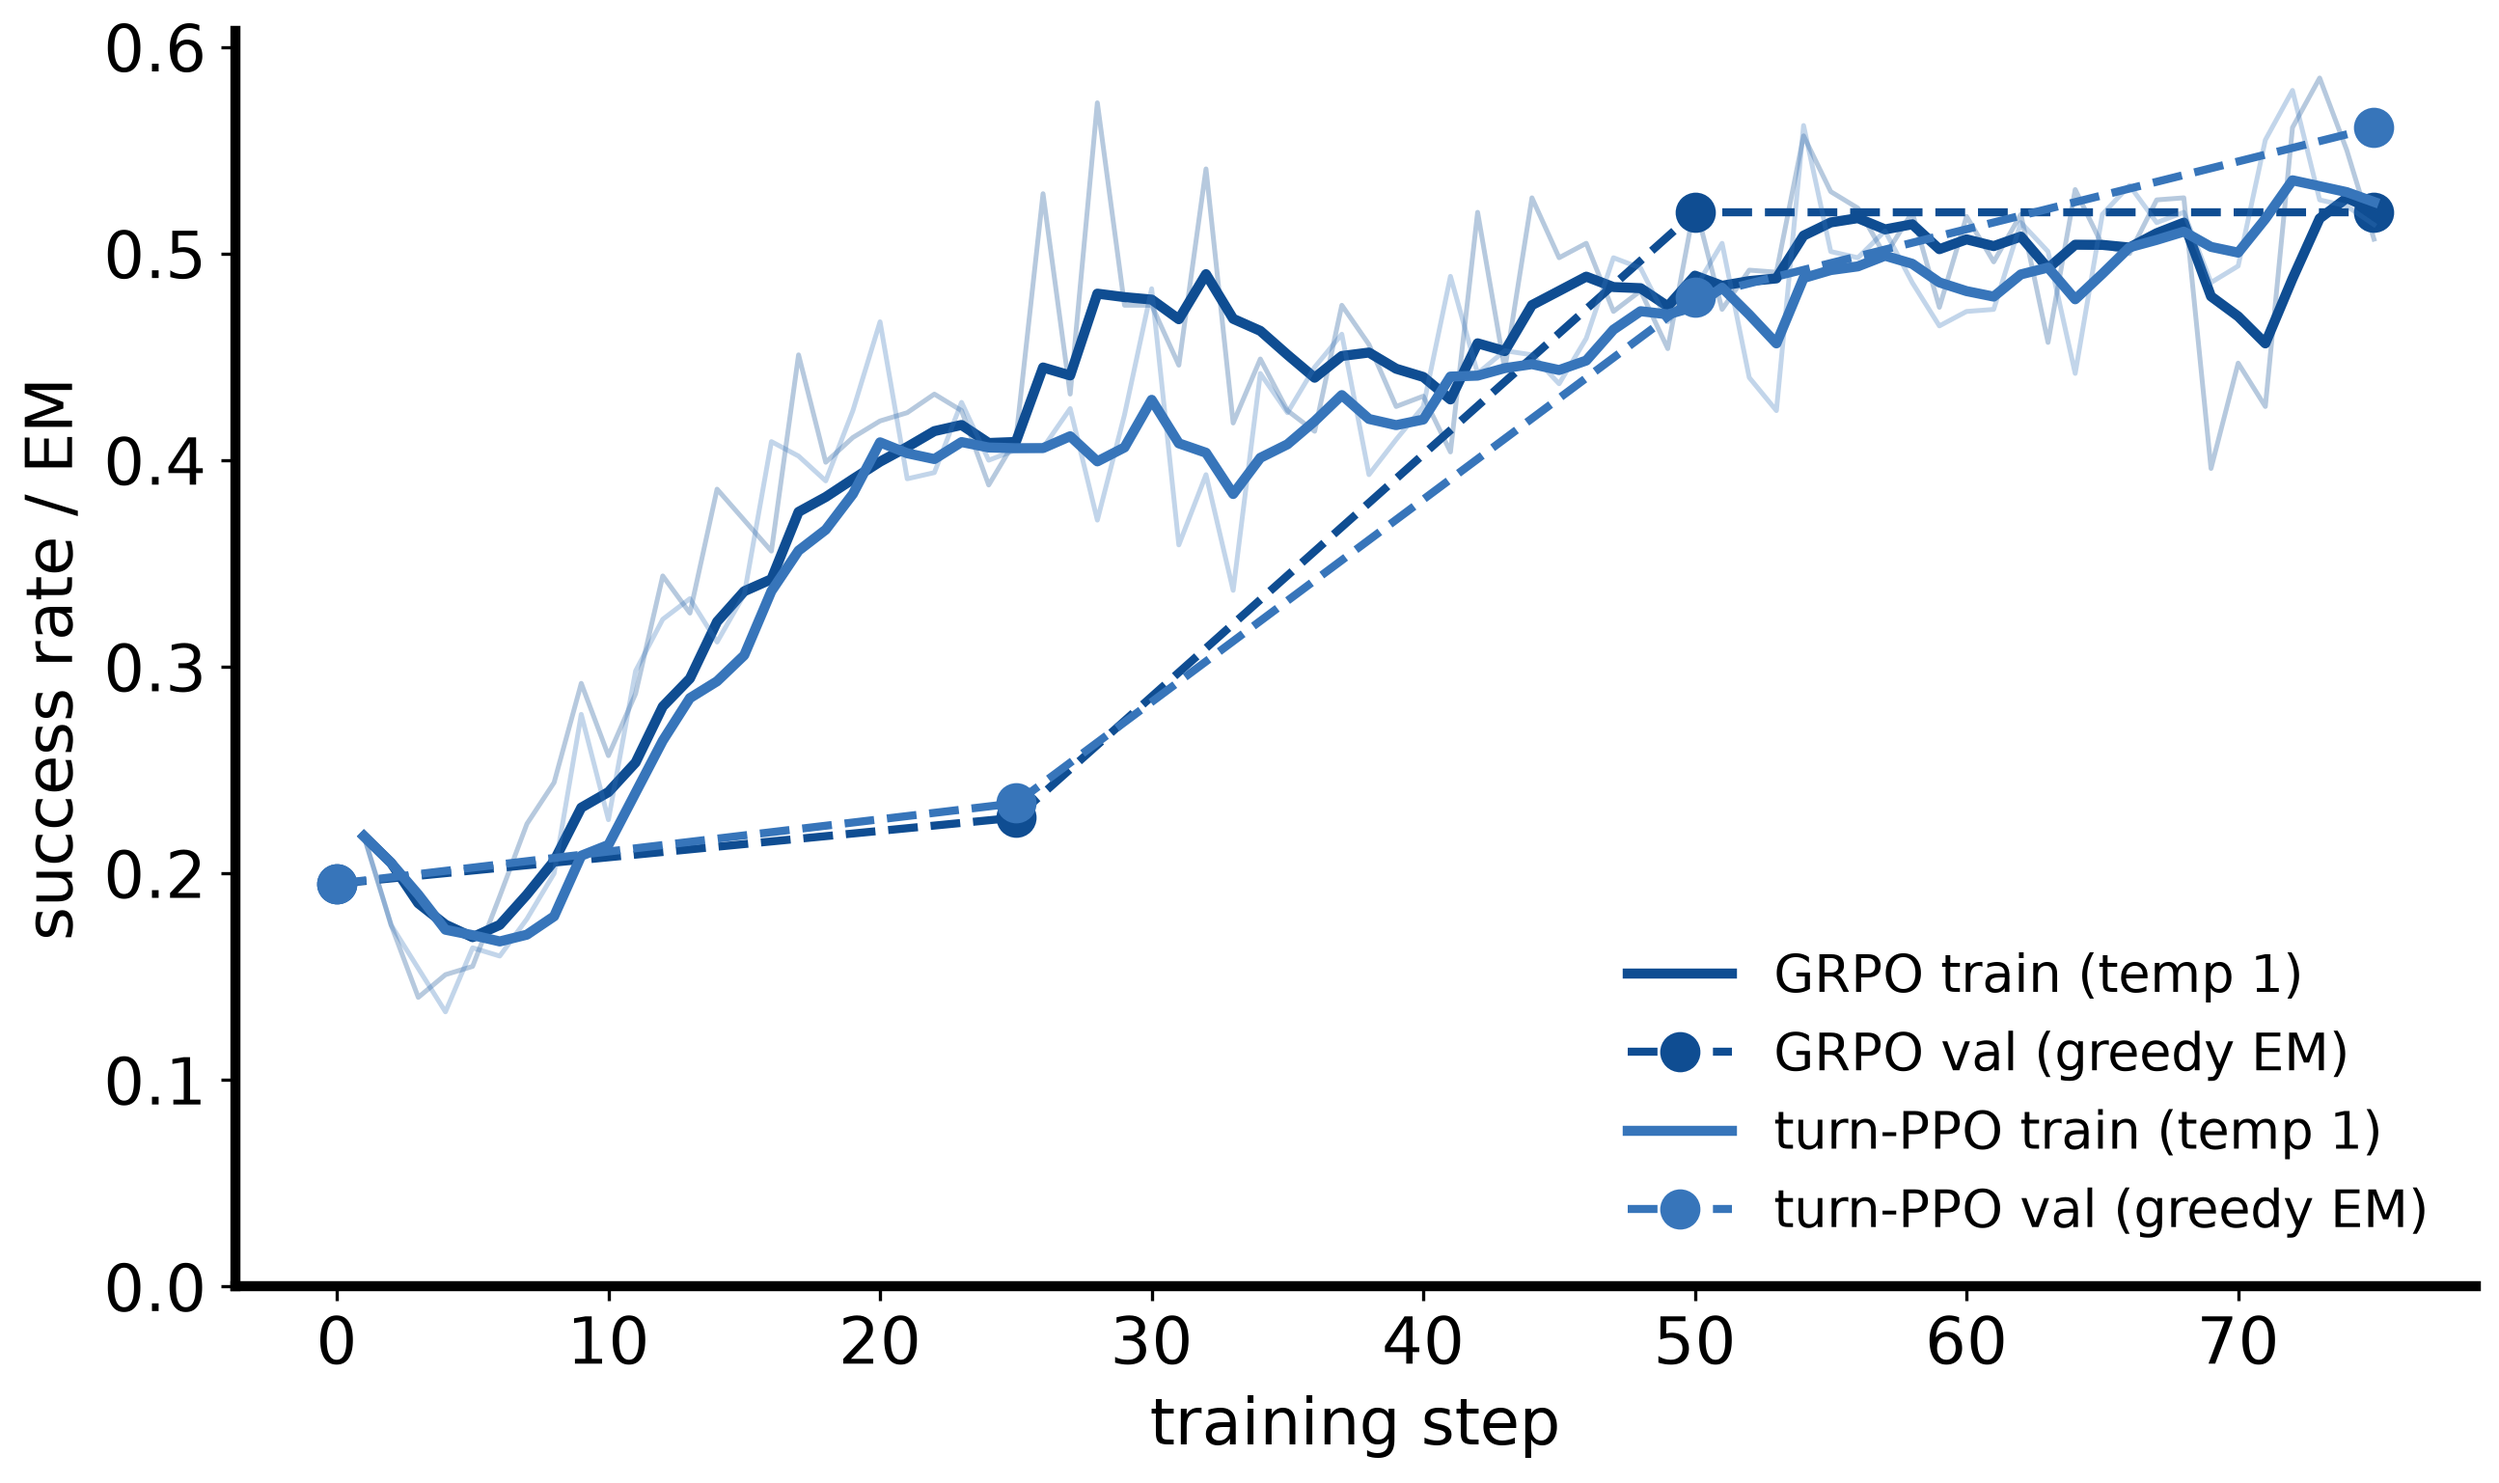
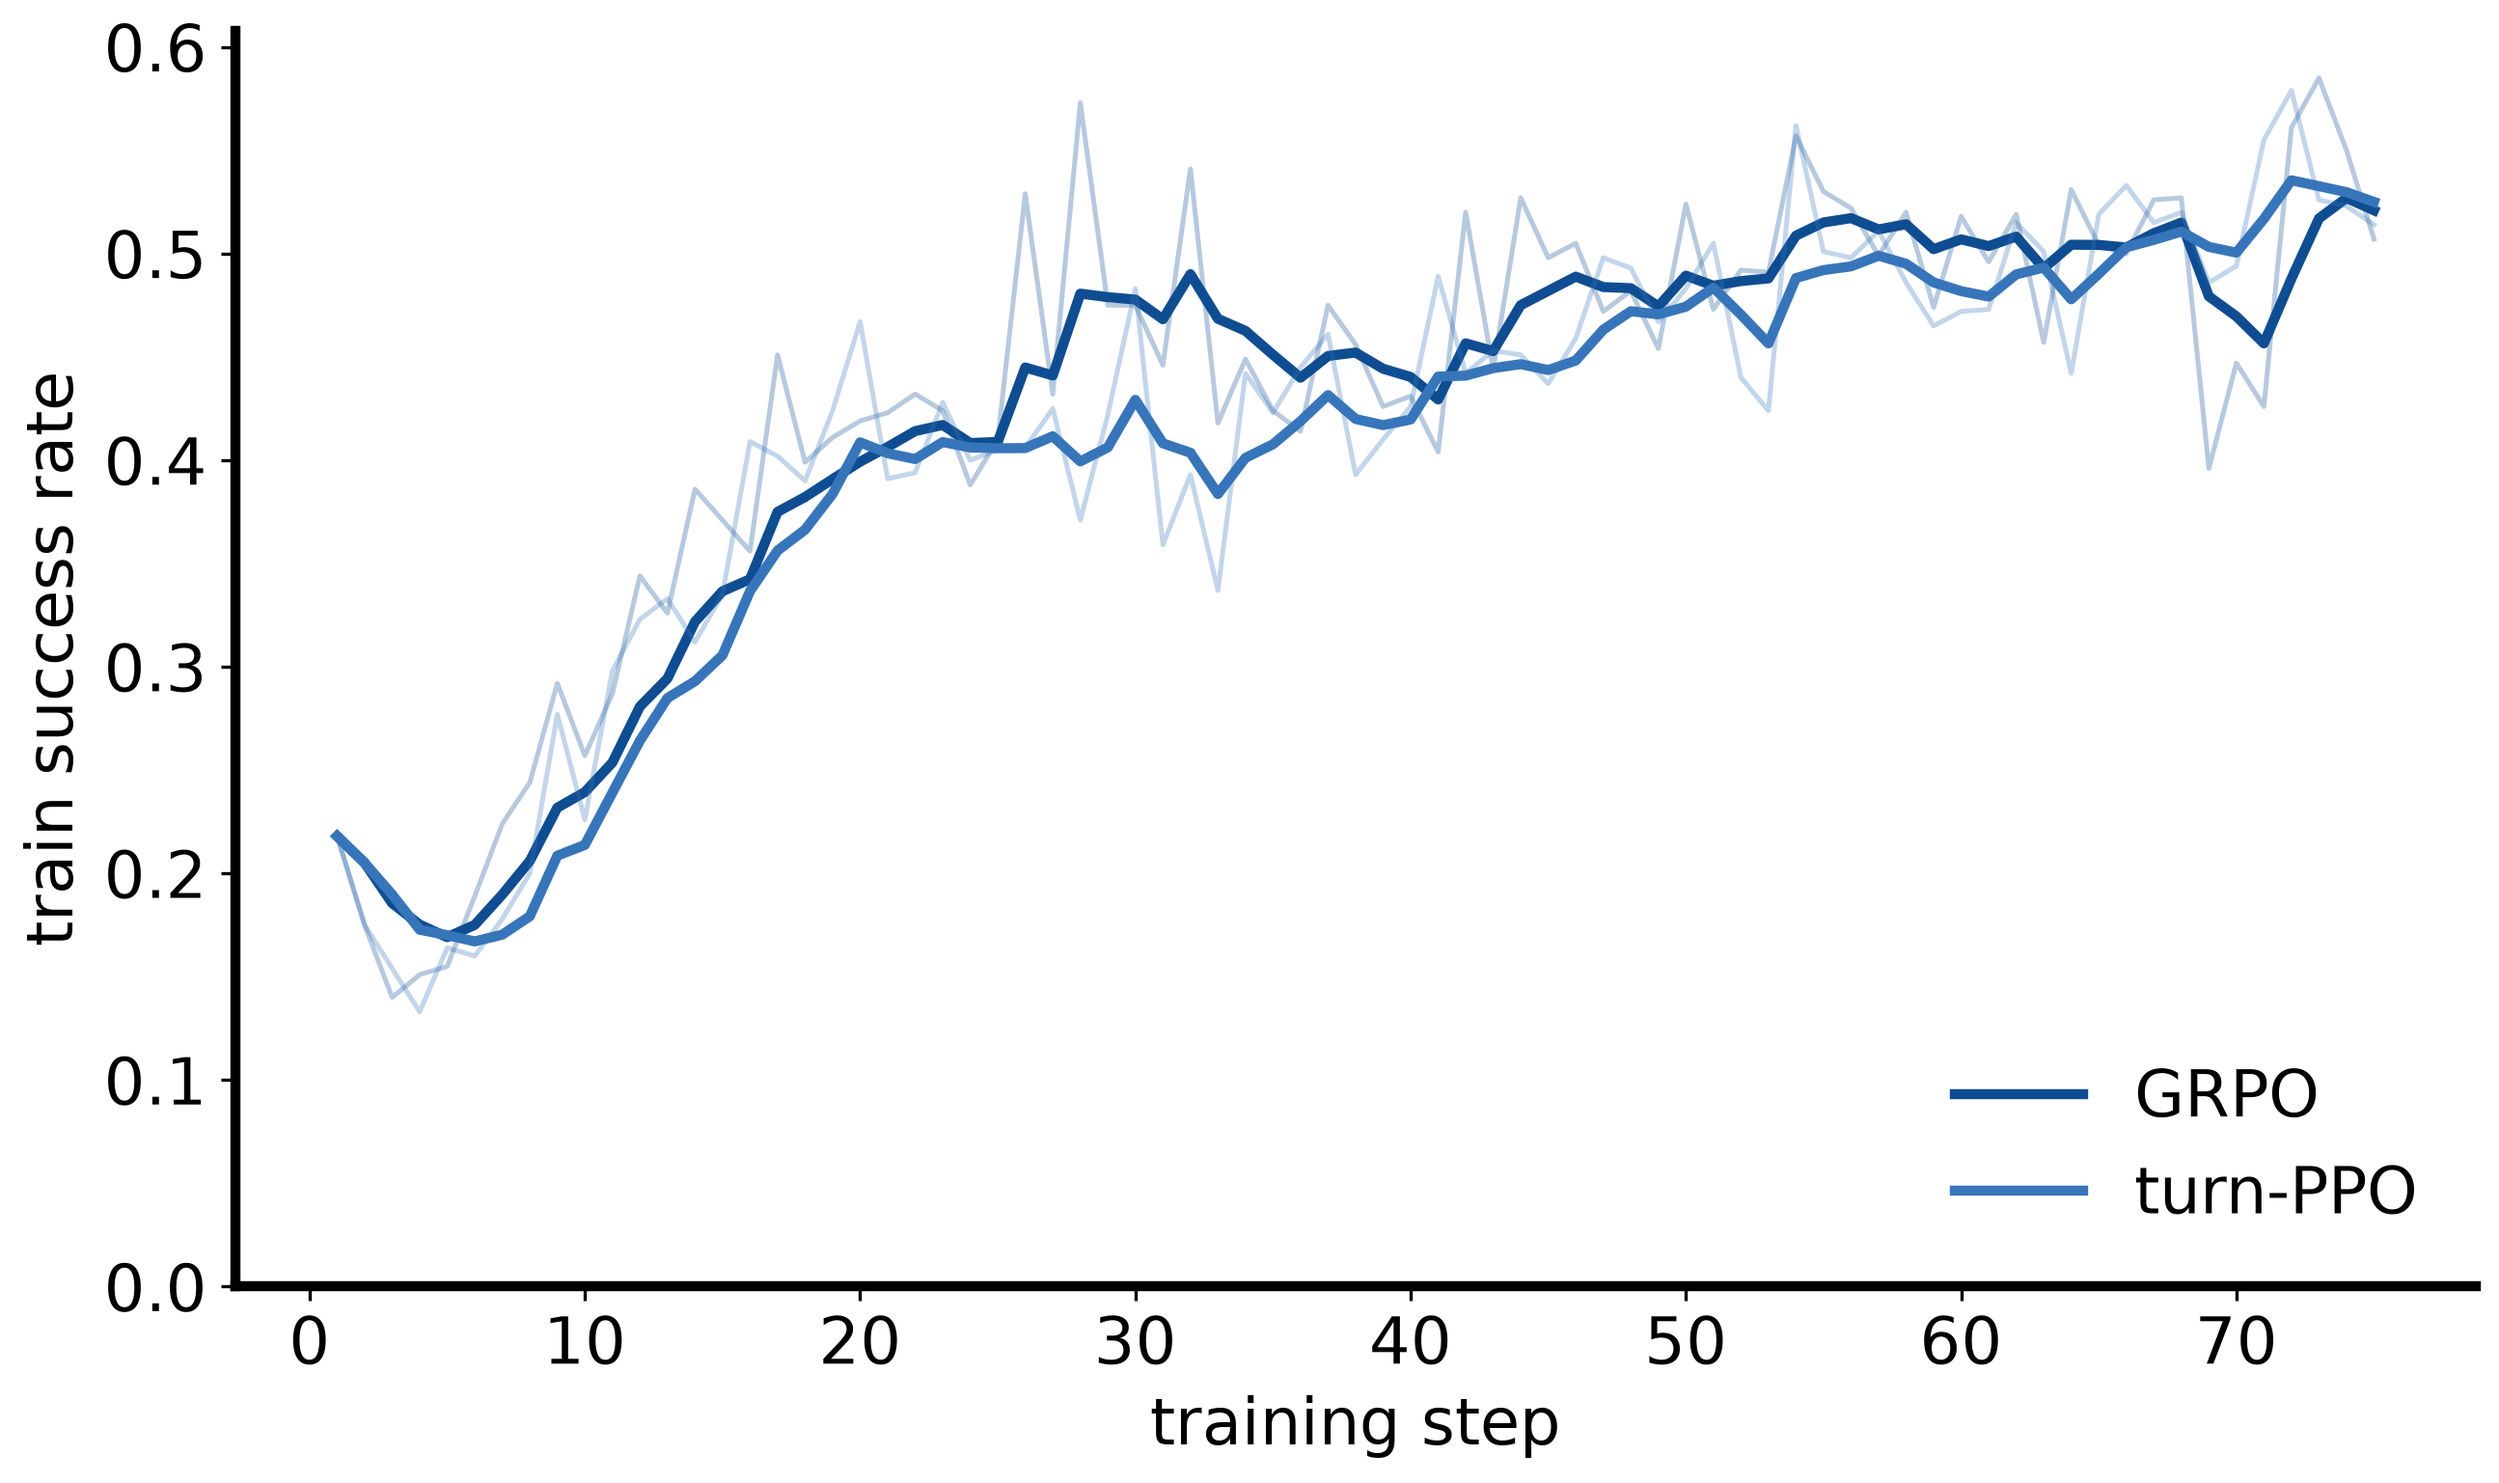
Training-curves figure: train-only (drop val overlay)

diff --git a/docs/reports/2026-08-05_asearcher_eval_s75/make_training_curves.py b/docs/reports/2026-08-05_asearcher_eval_s75/make_training_curves.py
@@ -57,14 +57,11 @@ fig, ax = plt.subplots(figsize=(9, 5.5))
 for arm in LOGS:
     xs, ys = train[arm]
     ax.plot(xs, ys, color=C2[arm], linewidth=1.2, alpha=0.3)
-    ax.plot(xs, ema(ys), color=C2[arm], linewidth=2.5, label=f"{arm} train (temp 1)")
-    vx, vy = val[arm]
-    ax.plot(vx, vy, color=C2[arm], linewidth=2.0, linestyle="--", marker="o",
-            markersize=9, label=f"{arm} val (greedy EM)")
+    ax.plot(xs, ema(ys), color=C2[arm], linewidth=2.5, label=arm)
 ax.set_xlabel("training step")
-ax.set_ylabel("success rate / EM")
+ax.set_ylabel("train success rate")
 ax.set_ylim(0, None)
-ax.legend(frameon=False, fontsize=13, loc="lower right")
+ax.legend(frameon=False, loc="lower right")
 
 finalize_figure(fig, HERE / "assets" / "fig_training_curves")
 print("wrote assets/fig_training_curves.{png,pdf}")
